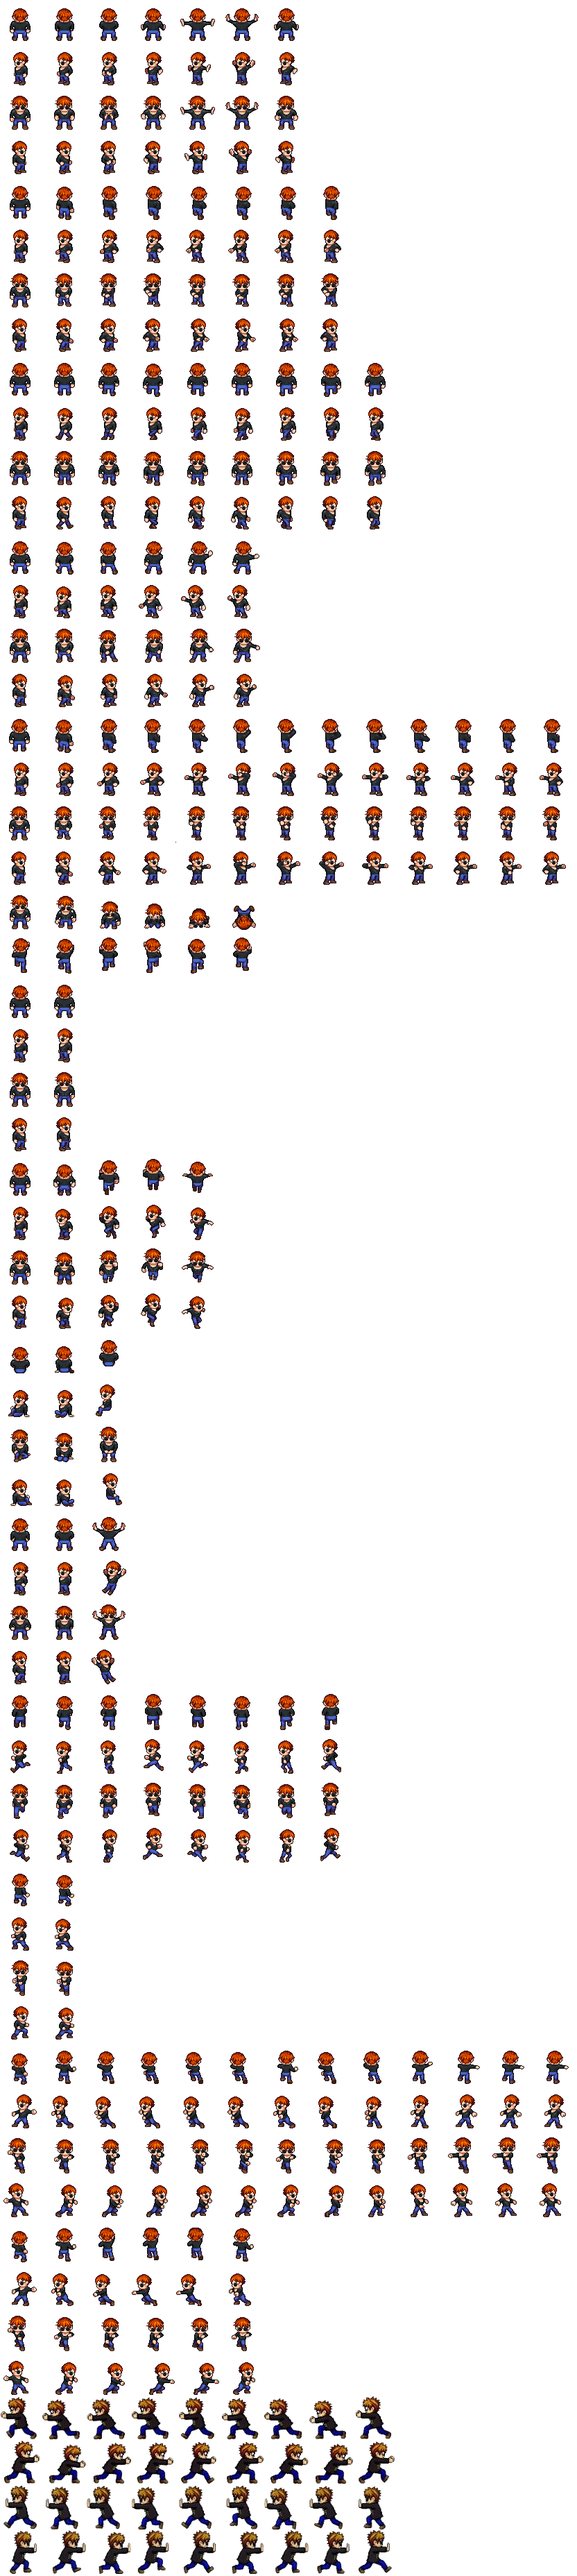
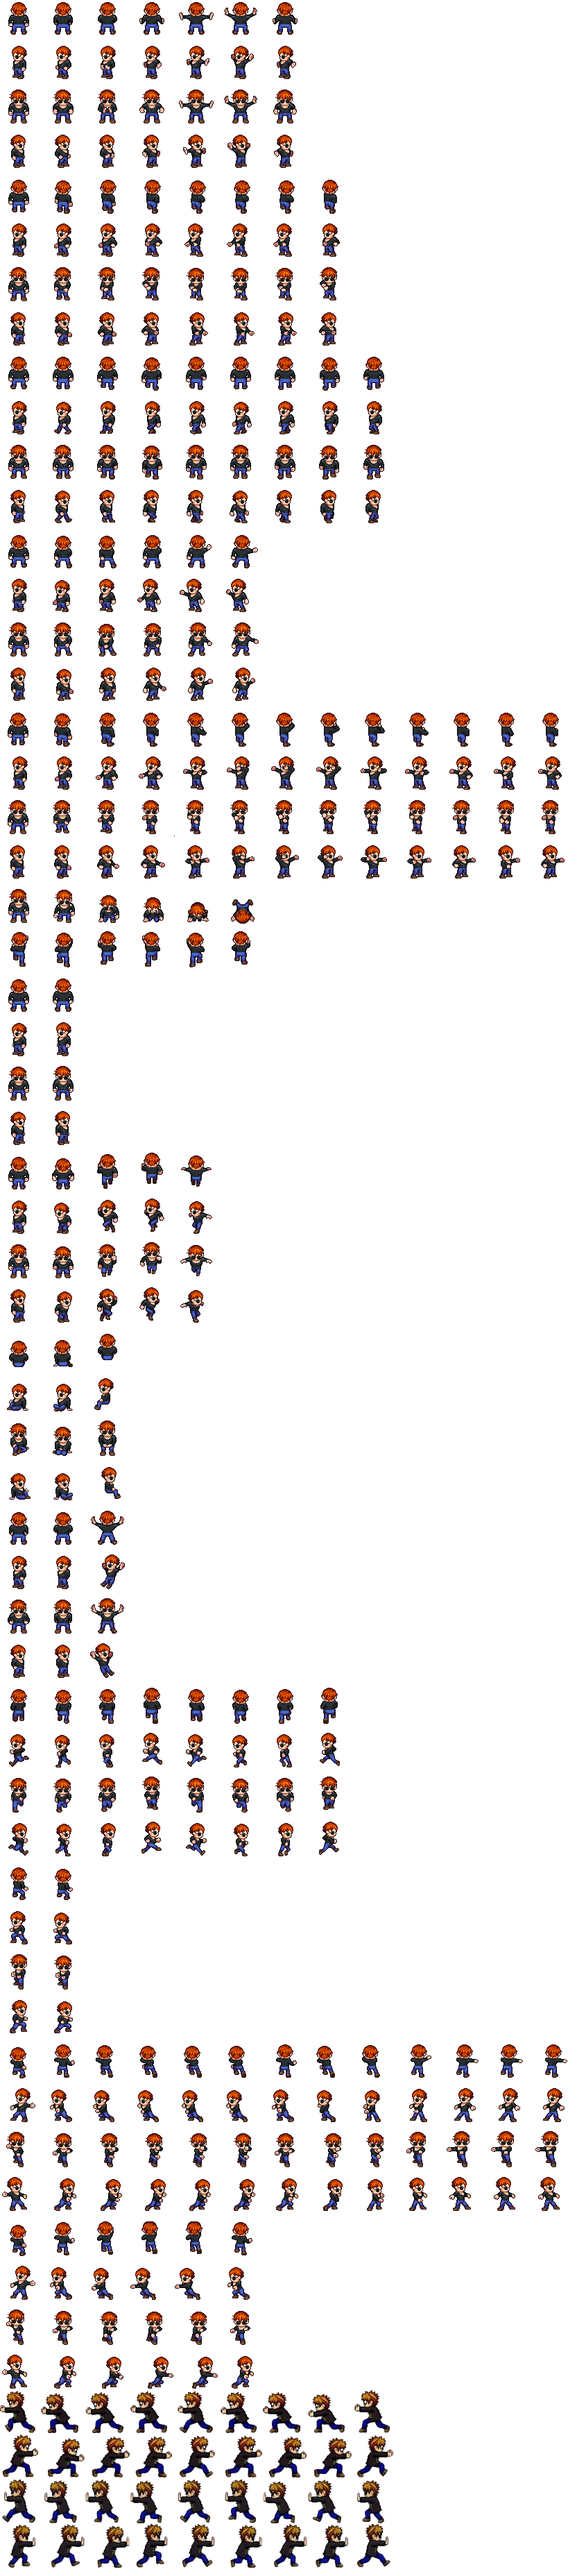
Using sprite sheet with anchor points on all rows and centered anchor for objects ( previously it was being attached through the top left corner of object ). Now we have null offsets for frames in which object would be invisible due to the movement of character.

diff --git a/src/helpers/anchorScanner.ts b/src/helpers/anchorScanner.ts
@@ -1,6 +1,6 @@
 export const ANCHOR_COLORS = {
-    hand: [255, 0, 255] as const,   
-    feet: [0, 255, 255] as const,   
+    hand: [255, 0, 255] as const,
+    feet: [0, 255, 255] as const,
 } satisfies Record<string, readonly [number, number, number]>;
 
 export type AnchorPoint = keyof typeof ANCHOR_COLORS;
@@ -58,17 +58,17 @@ export async function scanAnchors(
 
     for (const { name, row, frames } of rows) {
         anchorMap[name] = {};
-
         for (let frame = 0; frame < frames; frame++) {
+            let f = 1
             const cellX = frame * frameWidth;
             const cellY = row * frameHeight;
-
             for (let py = 0; py < frameHeight; py++) {
                 for (let px = 0; px < frameWidth; px++) {
                     const idx = ((cellY + py) * width + (cellX + px)) * 4;
                     if (data[idx + 3] < 128) continue;
                     for (const [anchorName, color] of Object.entries(ANCHOR_COLORS) as [AnchorPoint, readonly [number, number, number]][]) {
                         if (colorsMatch(data, idx, color)) {
+                            f= 0;
                             if (!anchorMap[name][anchorName]) {
                                 anchorMap[name][anchorName] = Array(frames).fill(null);
                             }
@@ -76,26 +76,20 @@ export async function scanAnchors(
                                 x: px,
                                 y: py,
                             };
-                            console.log(
-                                `[anchor] "${anchorName}" in "${name}" frame ${frame}` +
-                                ` → pixel (${px}, ${py}) in 64×64 cell` +
-                                ` [row ${rows.find(r => r.name === name)?.row}, cellX=${frame * frameWidth}]`
-                            );
+                            // console.log(
+                            //     `[anchor] "${anchorName}" in "${name}" frame ${frame}` +
+                            //     ` → pixel (${px}, ${py}) in 64×64 cell` +
+                            //     ` [row ${rows.find(r => r.name === name)?.row}, cellX=${frame * frameWidth}]`
+                            // );
                             pixelsToErase.push(idx);
                         }
                     }
                 }
             }
-        }
-
-        for (const anchorName of Object.keys(anchorMap[name]) as AnchorPoint[]) {
-            const offsets = anchorMap[name][anchorName]!;
-            let last: { x: number; y: number } | null = null;
-            for (let i = 0; i < offsets.length; i++) {
-                if (offsets[i] !== null) last = offsets[i];
-                else if (last !== null) offsets[i] = last;
+            if(f==1){
+                console.log(name," ",row," ", frame)
             }
-        }
+        }   // null frames stay null
     }
 
     for (const idx of pixelsToErase) {
@@ -115,13 +109,15 @@ export async function scanAnchors(
         `found anchors in ${found}, erased ${pixelsToErase.length} pixel(s).`
     );
 
+    console.log(anchorMap)
+
     return { anchorMap, cleanUrl };
 }
 
 export function Config(
     anchorMap: AnchorMap
-): Record<string, Record<string, { x: number; y: number } | { x: number; y: number }[]>> {
-    const config: Record<string, Record<string, { x: number; y: number } | { x: number; y: number }[]>> = {};
+): Record<string, Record<string, { x: number; y: number } | ({ x: number; y: number } | null)[]>> {
+    const config: Record<string, Record<string, { x: number; y: number } | ({ x: number; y: number } | null)[]>> = {};
 
     for (const [animName, points] of Object.entries(anchorMap)) {
         config[animName] = {};
@@ -129,8 +125,9 @@ export function Config(
             const valid = offsets.filter((o): o is { x: number; y: number } => o !== null);
             if (valid.length === 0) continue;
 
-            const allSame = valid.every(o => o.x === valid[0].x && o.y === valid[0].y);
-            config[animName][point] = allSame ? valid[0] : offsets.map(o => o ?? valid[0]);
+            const allNonNull = offsets.every(o => o !== null);
+            const allSame = allNonNull && valid.every(o => o.x === valid[0].x && o.y === valid[0].y);
+            config[animName][point] = allSame ? valid[0] : [...offsets];
         }
     }
 

diff --git a/src/components/Animation.tsx b/src/components/Animation.tsx
@@ -14,6 +14,7 @@ import type { Config } from "../helpers/anchorScanner";
 extend({ Container, Sprite });
 
 type AttachmentConfig = ReturnType<typeof Config>;
+type FrameOffset = { x: number; y: number } | null;
 
 interface IHeroProps {
   herotexture: Texture | null;
@@ -115,22 +116,20 @@ export const Animation = ({ herotexture, setBackgroundTexture, scannedAnchorConf
         const parentScale = (e.parent.scale ?? 1) * (e.parent.visualScale ?? 1);
         const config = e.parent.attachmentConfig[anim]?.[e.attachmentPoint]
           ?? e.parent.attachmentConfig["default"]?.[e.attachmentPoint];
-        if (config) {
-          if (Array.isArray(config)) {
-            offset = { x: config[frame % config.length].x * parentScale, y: config[frame % config.length].y * parentScale };
-          } else {
-            offset = { x: config.x * parentScale, y: config.y * parentScale };
-          }
-          // Offsets are raw frame pixels → multiply by effective visual scale.
-          // parentScale = entity.scale * vScale so offset always matches rendering.
-          // const rawOffset = Array.isArray(config)
-          //   ? config[frame % config.length]
-          //   : config;
-          // if (rawOffset) {
-          //   offset = { x: rawOffset.x * parentScale, y: rawOffset.y * parentScale };
-          // }
+        const rawOffset: FrameOffset = config
+          ? (Array.isArray(config) ? (config[frame % config.length] as FrameOffset) : config)
+          : null;
+
+        const container = e.container.current;
+        if (rawOffset === null) {
+          if (container) container.visible = false;
+          return;
         }
-        // console.log(config, offset)
+        if (container) container.visible = true;
+        offset = { x: rawOffset.x * parentScale, y: rawOffset.y * parentScale };
+      } else {
+        const container = e.container.current;
+        if (container) container.visible = true;
       }
       // console.log(offset)
       e.x = e.parent.x + offset.x;
@@ -145,7 +144,7 @@ export const Animation = ({ herotexture, setBackgroundTexture, scannedAnchorConf
 
   useTick((ticker: Ticker) => {
     const dt = ticker.deltaTime;
-    try{
+    try {
       const scene = sceneRef.current;
       if (!scene) return;
       scene.update(dt);
@@ -167,7 +166,7 @@ export const Animation = ({ herotexture, setBackgroundTexture, scannedAnchorConf
         }
       }
     }
-    catch(e){
+    catch (e) {
       console.warn(e)
     }
   });
@@ -182,6 +181,7 @@ export const Animation = ({ herotexture, setBackgroundTexture, scannedAnchorConf
               ref={e.sprite}
               texture={e.texture ?? undefined}
               scale={e.scale}
+              anchor={e.isObject ? 0.5 : 0}
             />
           </pixiContainer>
         ))}

diff --git a/src/helpers/spriteRows.ts b/src/helpers/spriteRows.ts
@@ -12,7 +12,7 @@ export const SPRITE_ROWS: RowDesc[] = [
     { name: "MOVEUP", row: 8, frames: 9 },
     { name: "MOVELEFT", row: 9, frames: 9 },
     { name: "MOVEDOWN", row: 10, frames: 9 },
-    { name: "MOVERIGHT", row: 0, frames: 7 },
+    { name: "MOVERIGHT", row: 11, frames: 9 },
     { name: "SLASHUP", row: 12, frames: 6 },
     { name: "SLASHLEFT", row: 13, frames: 6 },
     { name: "SLASHDOWN", row: 14, frames: 6 },
@@ -55,7 +55,7 @@ export const SPRITE_ROWS: RowDesc[] = [
     { name: "PULLRIGHT", row: 55, frames: 9 },
     { name: "PUSHLEFT", row: 56, frames: 9 },
     { name: "PUSHRIGHT", row: 57, frames: 9 },
-    { name: "DANCE", row: 2, frames: 9 },
+    { name: "DANCE", row: 2, frames: 7 },
 ];
 
 export const SPRITE_ROW_MAP = new Map(SPRITE_ROWS.map(r => [r.name, r]));

diff --git a/src/helpers/useHeroAnimation.ts b/src/helpers/useHeroAnimation.ts
@@ -32,7 +32,7 @@ const getRowByDirection = (direction: Direction | null): RowConfig => {
     case "MOVEUP": return { row: 8, frames: 9 }
     case "MOVELEFT": return { row: 9, frames: 9 }
     case "MOVEDOWN": return { row: 10, frames: 9 }
-    case "MOVERIGHT": return { row: 0, frames: 7 }
+    case "MOVERIGHT": return { row: 11, frames: 9 }
     case "SLASHUP": return { row: 12, frames: 6 }
     case "SLASHLEFT": return { row: 13, frames: 6 }
     case "SLASHDOWN": return { row: 14, frames: 6 }

diff --git a/src/types/Entity.ts b/src/types/Entity.ts
@@ -27,7 +27,7 @@ export interface Entity {
     container: React.RefObject<Container | null>;
     texture?: Texture | null;
     attachmentPoint?: string;
-    attachmentConfig?: Record<string, Record<string, { x: number, y: number } | { x: number, y: number }[]>>;
+    attachmentConfig?: Record<string, Record<string, { x: number, y: number } | ({ x: number, y: number } | null)[]>>;
     currentFrame?: number;
     animMode?: "loop" | "once" | "static" | "freeze";
     animFinished?: boolean;

diff --git a/src/constants/demo-scene.ts b/src/constants/demo-scene.ts
@@ -82,7 +82,7 @@ export const DEMO_SCENE: SceneDefinition = {
       {
         type: "action",
         name: "applyForce",
-        params: { mode:"push", force:{x:-1,y:0}, duration:5000},
+        params: { mode:"push", force:{x:1,y:0}, duration:5000},
         entityId: "hero2"
       },
 
